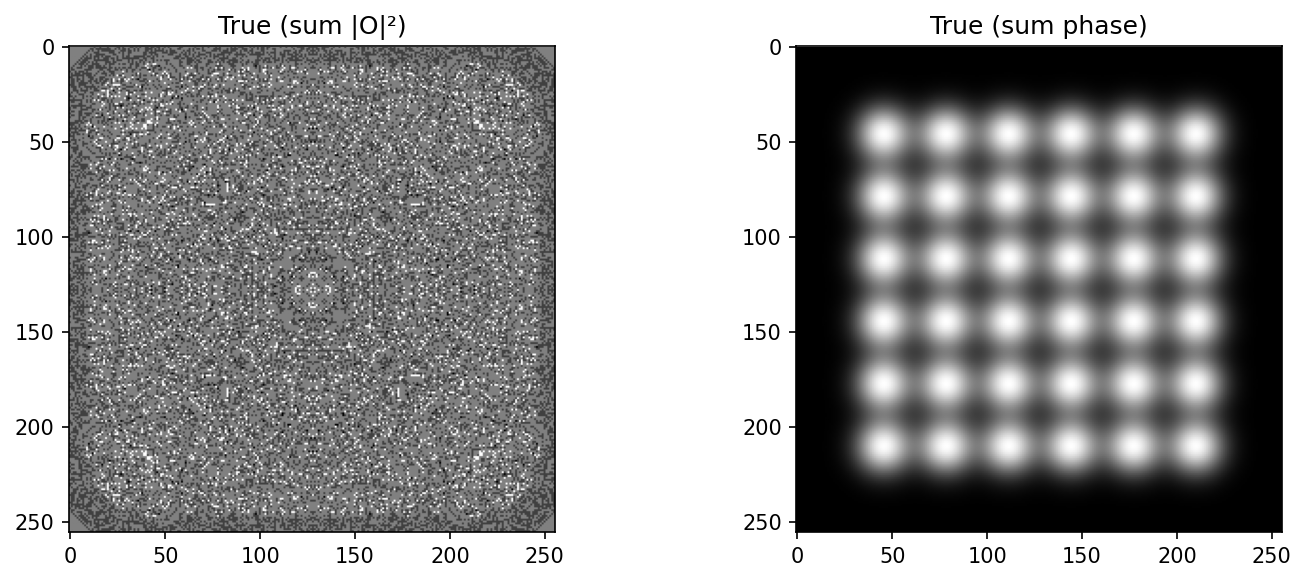
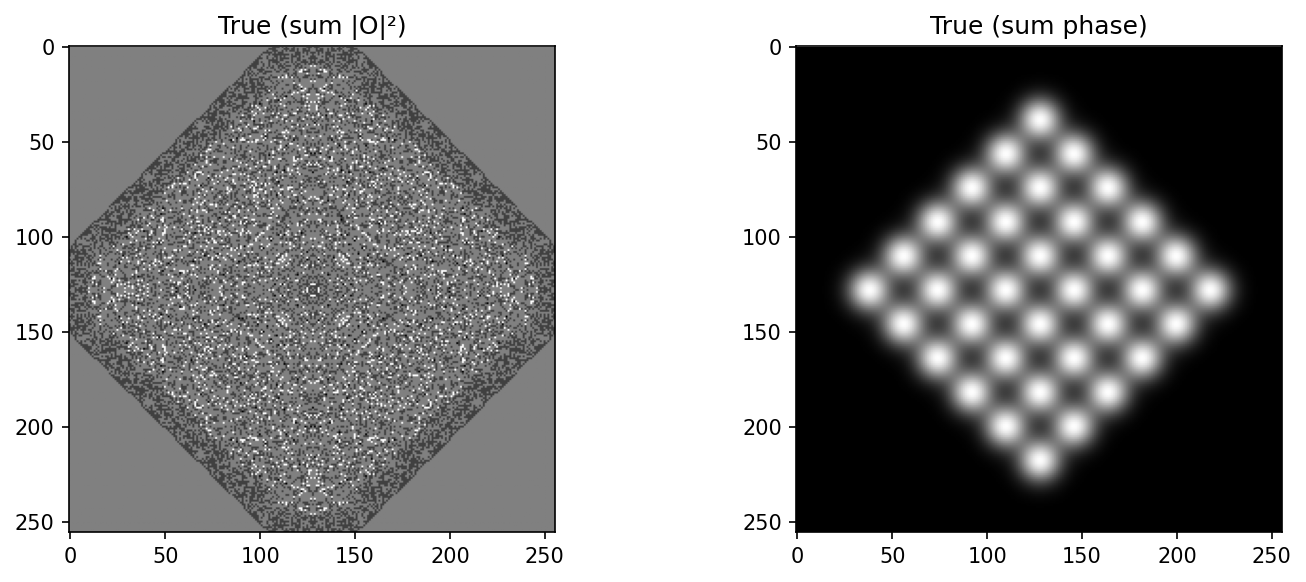
Support arbitrary lattice rotation; default 45° to prove orientation-agnostic
Adds CrystalMaker.rotate_xy(angle_deg) to rotate the tiled supercell in
the xy plane. tutorial.py gains a rotation_deg knob (default 45°) that
scales the effective bounding box by |cos θ| + |sin θ| in the geometry
derivation, so rotated samples still fit inside the scan-safe region.

Result: 45°-rotated 6×6 sc lattice reconstructs as cleanly as the
axis-aligned case. Residual 54 → 24, monotonic convergence, both probe
(aberration rings) and object (rotated 6×6 diamond of atoms at correct
positions, correct phase magnitude) reconstructed from χ(k)=0 without
prior aberration knowledge.

Tests added for rotate_xy (preserves atom count and pairwise distances,
rejects pre-tile rotation).

https://claude.ai/code/session_01Ryk8yeo17Rwh7g5p1TgKVU

diff --git a/tutorial.py b/tutorial.py
@@ -66,6 +66,7 @@ DEMO = {
     "nz": 1,                # unit cells along z (=> n_slices for sc)
     "structure": "sc",      # 'sc' | 'bcc' | 'fcc' | 'diamond'
     "Z1": 31,               # atomic number (amplitude weight)
+    "rotation_deg": 45.0,   # in-plane lattice rotation (0 = axis-aligned)
     # --- derived knobs (None → auto) --------------------------------------
     "sample_fill": 0.7,     # fraction of FOV the sample should span
     "sigma_frac": 0.30,     # sigma / in-plane spacing (atom visual size)
@@ -85,20 +86,28 @@ _structure = DEMO["structure"]
 _fov = DEMO["N"] * DEMO["dx"]
 _n_atoms_side = max(DEMO["nx"], DEMO["ny"]) * ROWS_PER_CELL_AXIS[_structure]
 
+# Rotation factor: when the lattice is rotated by θ, the axis-aligned
+# bounding box of the atom positions grows by (|cos θ| + |sin θ|) along
+# each axis (max at θ=45° → √2). Account for this in the fitting so
+# rotated lattices still fit inside the scan-safe region.
+_rot_rad = np.deg2rad(DEMO.get("rotation_deg", 0.0))
+_rot_scale = abs(np.cos(_rot_rad)) + abs(np.sin(_rot_rad))
+_n_atoms_eff = 1 + (_n_atoms_side - 1) * _rot_scale  # effective side for fitting
+
 # Solve jointly so sample-span + probe-patch ≤ margin·FOV. The probe patch
 # is set to ~2× the in-plane atom spacing (so each probe position touches
 # several atoms) but no smaller than `patch_min_A`.
 _margin = 0.9
 _patch_min = DEMO["patch_min_A"]
-# Case A: patch clamps to 2·spacing →  (n+1)·spacing ≤ margin·FOV
-_spacing_A = _margin * _fov / (_n_atoms_side + 1)
+# Case A: patch clamps to 2·spacing → (n_eff+1)·spacing ≤ margin·FOV
+_spacing_A = _margin * _fov / (_n_atoms_eff + 1)
 if 2 * _spacing_A >= _patch_min:
     _in_plane_spacing = _spacing_A
     _patch_A = 2 * _spacing_A
 else:
-    # Case B: patch clamps to patch_min → (n-1)·spacing = margin·FOV - patch_min
+    # Case B: patch clamps to patch_min → (n_eff-1)·spacing = margin·FOV - patch_min
     _in_plane_spacing = max(
-        (_margin * _fov - _patch_min) / max(_n_atoms_side - 1, 1),
+        (_margin * _fov - _patch_min) / max(_n_atoms_eff - 1, 1),
         0.5,
     )
     _patch_A = _patch_min
@@ -115,8 +124,9 @@ n_atoms_total = DEMO["nx"] * DEMO["ny"] * DEMO["nz"] * ATOMS_PER_CELL[_structure
 patch_size = int(np.ceil(_patch_A / DEMO["dx"] / 2.0) * 2)
 
 # Scan range: cover the atoms, but stay inside the patch-safe region
-# (|scan_pos| + patch_half ≤ N·dx/2).
-_sample_half_span = (_n_atoms_side - 1) / 2.0 * _in_plane_spacing
+# (|scan_pos| + patch_half ≤ N·dx/2). Rotated lattice bounding box
+# grows by `_rot_scale` along each axis.
+_sample_half_span = (_n_atoms_side - 1) / 2.0 * _in_plane_spacing * _rot_scale
 _scan_max = (DEMO["N"] / 2 - patch_size / 2) * DEMO["dx"]
 scan_range = min(
     DEMO["scan_fill"] * _sample_half_span + _in_plane_spacing,
@@ -131,7 +141,7 @@ scan_step = max(0.25 * _in_plane_spacing, 2 * DEMO["dx"])
 
 print(f"  Config: N={DEMO['N']}, dx={DEMO['dx']} Å, FOV={_fov:.1f} Å")
 print(f"  Sample: {DEMO['nx']}×{DEMO['ny']}×{DEMO['nz']} {_structure} cells "
-      f"→ {n_atoms_total} atoms")
+      f"→ {n_atoms_total} atoms, rotated {DEMO.get('rotation_deg', 0.0):.1f}°")
 print(f"  Derived: a_lat={a_lat:.2f} Å, spacing={_in_plane_spacing:.2f} Å, "
       f"σ={atom_sigma:.2f} Å, dz={dz:.2f} Å")
 print(f"           patch_size={patch_size}px ({patch_size*DEMO['dx']:.1f} Å), "
@@ -166,8 +176,11 @@ step(f"Tiling {_structure} supercell (a={a_lat:.2f} Å)...")
 
 cm = CrystalMaker(lattice_constant=a_lat, Z1=DEMO["Z1"], structure=_structure)
 cm.tile(nx=DEMO["nx"], ny=DEMO["ny"], nz=DEMO["nz"])
+if DEMO.get("rotation_deg", 0.0) != 0.0:
+    cm.rotate_xy(DEMO["rotation_deg"])
 print(f"  Supercell: {cm.supercell.shape[0]} atoms  |  "
-      f"lattice constant: {cm.lattice_constant} Å ({_structure})")
+      f"lattice constant: {cm.lattice_constant} Å ({_structure}) "
+      f"| rotation: {DEMO.get('rotation_deg', 0.0):.1f}°")
 
 step("Initialising simulation grid...")
 mp = MicroPtycho(N=DEMO["N"], dx=DEMO["dx"], voltage=DEMO["voltage"])

diff --git a/tests/test_crystalmaker.py b/tests/test_crystalmaker.py
@@ -32,6 +32,32 @@ def test_sc_tile_produces_nx_ny_nz_atoms():
     assert cm.supercell.shape == (36, 4)
 
 
+def test_rotate_xy_preserves_atom_count_and_distances():
+    cm = CrystalMaker(lattice_constant=10.0, Z1=14, structure='sc')
+    cm.tile(nx=4, ny=4, nz=1)
+    original = cm.supercell.copy()
+    # Pairwise xy distances must be preserved by rotation (rigid motion).
+    def pairwise(xy):
+        d = xy[:, None, :] - xy[None, :, :]
+        return np.sqrt((d ** 2).sum(-1))
+    cm.rotate_xy(45.0)
+    assert cm.supercell.shape == original.shape
+    np.testing.assert_allclose(
+        pairwise(cm.supercell[:, :2]),
+        pairwise(original[:, :2]),
+        atol=1e-10,
+    )
+    # z and atomic number untouched
+    np.testing.assert_array_equal(cm.supercell[:, 2], original[:, 2])
+    np.testing.assert_array_equal(cm.supercell[:, 3], original[:, 3])
+
+
+def test_rotate_xy_requires_tile():
+    cm = CrystalMaker(structure='sc')
+    with pytest.raises(ValueError):
+        cm.rotate_xy(45.0)
+
+
 def test_invalid_structure_raises():
     with pytest.raises(ValueError):
         CrystalMaker(structure='hcp')

diff --git a/crystalmaker.py b/crystalmaker.py
@@ -87,6 +87,25 @@ class CrystalMaker:
         self.supercell = np.vstack(tiled)
         return self.supercell
 
+    def rotate_xy(self, angle_deg):
+        """Rotate the tiled supercell in the xy plane by `angle_deg`.
+
+        Used to verify that reconstruction is lattice-orientation
+        agnostic: the ePIE algorithm has no preferred axis, but a
+        regular raster scan + axis-aligned lattice is the one case
+        where moiré aliasing can occur. Rotating the lattice (or
+        jittering the scan) breaks that symmetry.
+        """
+        if self.supercell is None:
+            raise ValueError("Call tile() first.")
+        theta = np.deg2rad(angle_deg)
+        cos, sin = np.cos(theta), np.sin(theta)
+        x = self.supercell[:, 0].copy()
+        y = self.supercell[:, 1].copy()
+        self.supercell[:, 0] = cos * x - sin * y
+        self.supercell[:, 1] = sin * x + cos * y
+        return self.supercell
+
     def create_potentials(self, X, Y, dz=2.0, sigma=0.7, amplitude=10, center=True,
                           atomic_scale=True, save_path=None):
         if self.supercell is None:

diff --git a/CLAUDE.md b/CLAUDE.md
@@ -30,6 +30,13 @@ To add a new structure: update `ATOMS_PER_CELL`, `MIN_IN_PLANE_SPACING_FRAC`,
 and `ROWS_PER_CELL_AXIS` dicts at the top of `tutorial.py`, and add a
 `_<name>_unit_cell` to `CrystalMaker`.
 
+**Lattice rotation.** `DEMO['rotation_deg']` rotates the tiled supercell
+in the xy plane via `CrystalMaker.rotate_xy`. Default is 45° —
+deliberately off-axis to prove the reconstruction is lattice-orientation
+agnostic. The geometry derivation scales the effective side of the
+bounding box by `|cos θ| + |sin θ|` (→ √2 at 45°) so the rotated
+sample + probe patch still fits inside the scan-safe region.
+
 ## Sparse multislice ePIE (the 36-atom demo) — BOTH probe and object
 
 **Multislice ptychography by definition reconstructs both probe AND
